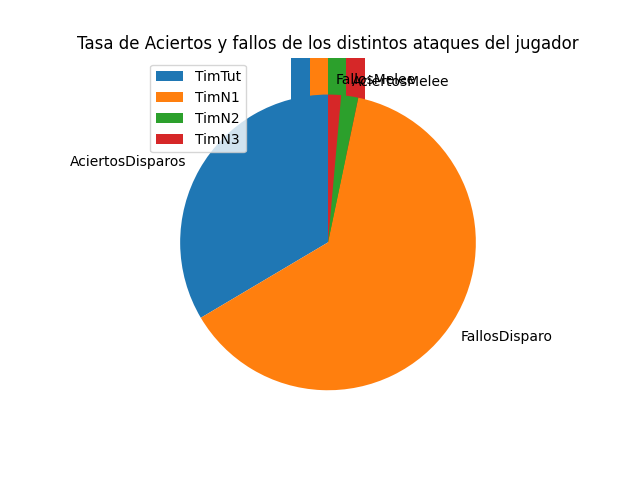
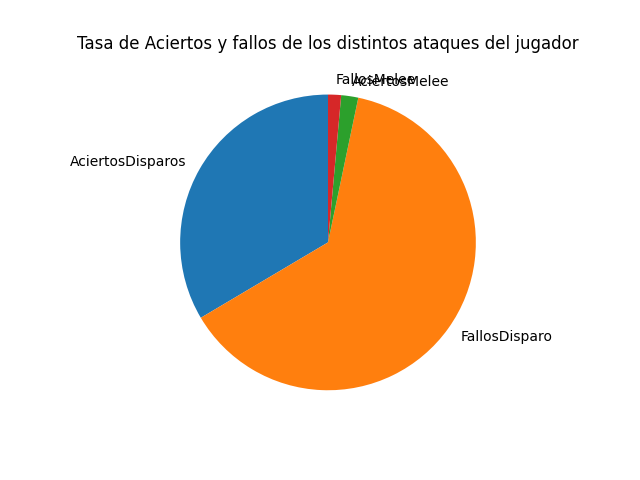
YA

Changed region(s): [[0.2188, 0.125, 0.4062, 0.3438], [0.4375, 0.0938, 0.5938, 0.2188]]

diff --git a/Analisis/HeatMapsYMetricas/Analisis.py b/Analisis/HeatMapsYMetricas/Analisis.py
@@ -122,14 +122,16 @@ ar2[ar2==0]=1
 ar=ar1/ar2
 auxdf = pd.DataFrame(columns = mlabels)
 auxdf.loc[0] = ar
+plt.clf()
 max = auxdf.plot(y=['TimTut', 'TimN1', 'TimN2', 'TimN3'], kind='bar')
 plt.title("Distribución de Tiempo tardado por Nivel")
 plt.savefig('./Metricas/Metrica4.png')
+
 #Metrica 5 y 6
 mlabels = ['AciertosDisparos', 'FallosDisparo', 'AciertosMelee', 'FallosMelee']
 ar = [sum(singleDf['DisAc']), sum(singleDf['Dis']) - sum(singleDf['DisAc']), 
       sum(singleDf['MelAc']), sum(singleDf['Mel']) - sum(singleDf['MelAc'])]
-plt.clf
+plt.clf()
 plt.pie(ar, labels = mlabels, startangle = 90)
 plt.title("Tasa de Aciertos y fallos de los distintos ataques del jugador")
 plt.savefig('./Metricas/Metrica5y6.png')
